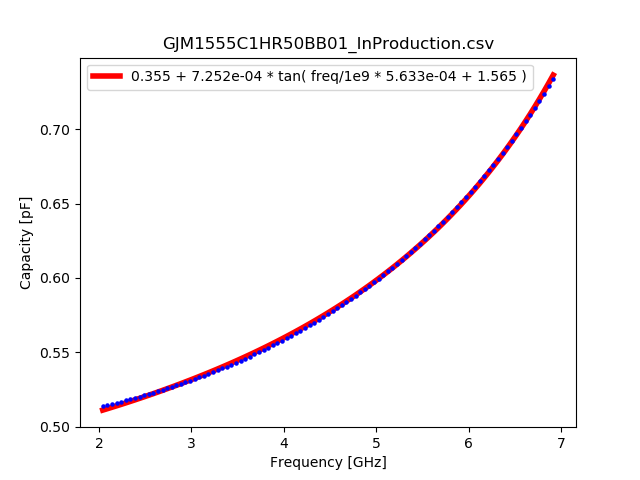
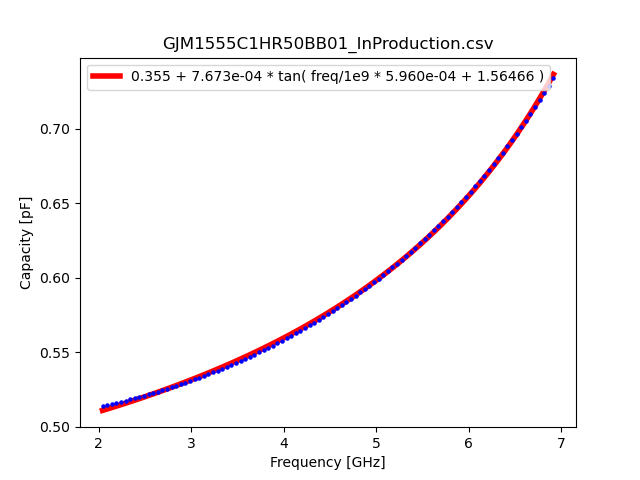
:sparkles: Feature :

diff --git a/fitting.py b/fitting.py
@@ -88,7 +88,7 @@ def fitting(file_name, freq_min, freq_max, save_img=True):
     if save_img:
         plt.scatter(freq, cap, s=5, c='blue', zorder=2)
         # plt.plot(freq, func(freq, *popt), lw=4, c='red', zorder=1, label='{:.2E} + {:.2E}*exp(freq[GHz] * {:.2E} + {:.2E})'.format(*popt))
-        func_str = '{:.3f} + {:.3e} * tan( freq/1e9 * {:.3e} + {:.3f} )'.format(*popt)
+        func_str = '{:.3f} + {:.3e} * tan( freq/1e9 * {:.3e} + {:.5f} )'.format(*popt)
         plt.plot(freq, func(freq, *popt), lw=4, c='red', zorder=1, label=func_str)
         plt.title(file_name.split('/')[-1])
         plt.xlabel('Frequency [GHz]')

diff --git a/README.md b/README.md
@@ -5,31 +5,17 @@ note : use only simsurfing data
 
 | label | value | func |
 | ---   | ---   | --- |
-| [GJM1555C1H1R0BB01_InProduction.csv](img/GJM1555C1H1R0BB01_InProduction.png) | 1.0pF | `0.446 + 7.759e-03 * tan( freq/1e9 * 2.307e-03 + 1.553 )` |
-| [GJM1555C1H1R1BB01_InProduction.csv](img/GJM1555C1H1R1BB01_InProduction.png) | 1.1pF | `0.508 + 7.715e-03 * tan( freq/1e9 * 2.033e-03 + 1.555 )` |
-| [GJM1555C1H1R2BB01_InProduction.csv](img/GJM1555C1H1R2BB01_InProduction.png) | 1.2pF | `0.515 + 9.215e-03 * tan( freq/1e9 * 2.215e-03 + 1.554 )` |
-| [GJM1555C1H1R3BB01_InProduction.csv](img/GJM1555C1H1R3BB01_InProduction.png) | 1.3pF | `0.516 + 1.648e-02 * tan( freq/1e9 * 3.652e-03 + 1.544 )` |
-| [GJM1555C1H1R4BB01_InProduction.csv](img/GJM1555C1H1R4BB01_InProduction.png) | 1.4pF | `0.530 + 2.301e-02 * tan( freq/1e9 * 4.747e-03 + 1.536 )` |
-| [GJM1555C1H1R5BB01_InProduction.csv](img/GJM1555C1H1R5BB01_InProduction.png) | 1.5pF | `0.500 + 5.973e-02 * tan( freq/1e9 * 1.150e-02 + 1.490 )` |
-| [GJM1555C1H1R6BB01_InProduction.csv](img/GJM1555C1H1R6BB01_InProduction.png) | 1.6pF | `0.527 + 6.705e-02 * tan( freq/1e9 * 1.248e-02 + 1.486 )` |
-| [GJM1555C1H1R7BB01_InProduction.csv](img/GJM1555C1H1R7BB01_InProduction.png) | 1.7pF | `0.737 + 6.072e-02 * tan( freq/1e9 * 1.229e-02 + 1.489 )` |
-| [GJM1555C1H1R8BB01_InProduction.csv](img/GJM1555C1H1R8BB01_InProduction.png) | 1.8pF | `0.756 + 6.549e-02 * tan( freq/1e9 * 1.264e-02 + 1.488 )` |
-| [GJM1555C1H1R9BB01_InProduction.csv](img/GJM1555C1H1R9BB01_InProduction.png) | 1.9pF | `0.774 + 6.380e-02 * tan( freq/1e9 * 1.179e-02 + 1.496 )` |
-| [GJM1555C1H2R0BB01_InProduction.csv](img/GJM1555C1H2R0BB01_InProduction.png) | 2.0pF | `0.728 + 6.880e-02 * tan( freq/1e9 * 1.165e-02 + 1.498 )` |
-| [GJM1555C1H2R1BB01_InProduction.csv](img/GJM1555C1H2R1BB01_InProduction.png) | 2.1pF | `0.754 + 8.282e-02 * tan( freq/1e9 * 1.360e-02 + 1.488 )` |
-| [GJM1555C1H2R2BB01_InProduction.csv](img/GJM1555C1H2R2BB01_InProduction.png) | 2.2pF | `0.785 + 7.863e-02 * tan( freq/1e9 * 1.256e-02 + 1.496 )` |
-| [GJM1555C1H2R3BB01_InProduction.csv](img/GJM1555C1H2R3BB01_InProduction.png) | 2.3pF | `1.099 + 6.886e-02 * tan( freq/1e9 * 1.348e-02 + 1.494 )` |
-| [GJM1555C1H2R4BB01_InProduction.csv](img/GJM1555C1H2R4BB01_InProduction.png) | 2.4pF | `1.133 + 7.643e-02 * tan( freq/1e9 * 1.443e-02 + 1.490 )` |
-| [GJM1555C1H2R5BB01_InProduction.csv](img/GJM1555C1H2R5BB01_InProduction.png) | 2.5pF | `1.160 + 7.962e-02 * tan( freq/1e9 * 1.450e-02 + 1.491 )` |
-| [GJM1555C1HR10BB01_InProduction.csv](img/GJM1555C1HR10BB01_InProduction.png) | 0.1pF | `0.092 + 3.410e-05 * tan( freq/1e9 * 3.710e-04 + 1.566 )` |
-| [GJM1555C1HR20BB01_InProduction.csv](img/GJM1555C1HR20BB01_InProduction.png) | 0.2pF | `0.170 + 2.088e-04 * tan( freq/1e9 * 6.529e-04 + 1.563 )` |
-| [GJM1555C1HR30BB01_InProduction.csv](img/GJM1555C1HR30BB01_InProduction.png) | 0.3pF | `0.241 + 4.287e-04 * tan( freq/1e9 * 7.254e-04 + 1.563 )` |
-| [GJM1555C1HR40BB01_InProduction.csv](img/GJM1555C1HR40BB01_InProduction.png) | 0.4pF | `0.292 + 3.791e-04 * tan( freq/1e9 * 3.748e-04 + 1.567 )` |
-| [GJM1555C1HR50BB01_InProduction.csv](img/GJM1555C1HR50BB01_InProduction.png) | 0.5pF | `0.355 + 7.252e-04 * tan( freq/1e9 * 5.633e-04 + 1.565 )` |
-| [GJM1555C1HR60BB01_InProduction.csv](img/GJM1555C1HR60BB01_InProduction.png) | 0.6pF | `0.397 + 6.110e-04 * tan( freq/1e9 * 3.578e-04 + 1.567 )` |
-| [GJM1555C1HR70BB01_InProduction.csv](img/GJM1555C1HR70BB01_InProduction.png) | 0.7pF | `0.408 + 2.152e-03 * tan( freq/1e9 * 9.738e-04 + 1.562 )` |
-| [GJM1555C1HR80BB01_InProduction.csv](img/GJM1555C1HR80BB01_InProduction.png) | 0.8pF | `0.435 + 2.388e-03 * tan( freq/1e9 * 9.192e-04 + 1.563 )` |
-| [GJM1555C1HR90BB01_InProduction.csv](img/GJM1555C1HR90BB01_InProduction.png) | 0.9pF | `0.462 + 4.369e-03 * tan( freq/1e9 * 1.486e-03 + 1.559 )` |
-| [GRM1554C1HR40BA01_NotRecommended.csv](img/GRM1554C1HR40BA01_NotRecommended.png) | 0.4pF | `0.277 + 4.051e-04 * tan( freq/1e9 * 3.735e-04 + 1.567 )` |
-| [GRM1554C1HR60BA01_NotRecommended.csv](img/GRM1554C1HR60BA01_NotRecommended.png) | 0.6pF | `0.349 + 1.039e-03 * tan( freq/1e9 * 5.526e-04 + 1.566 )` |
-| [GRM1554C1HR80BA01_NotRecommended.csv](img/GRM1554C1HR80BA01_NotRecommended.png) | 0.8pF | `0.390 + 3.855e-03 * tan( freq/1e9 * 1.466e-03 + 1.559 )` |
+| [GJM1555C1H1R0BB01_InProduction.csv](img/GJM1555C1H1R0BB01_InProduction.png) | 1.0pF | `0.446 + 7.698e-03 * tan( freq/1e9 * 2.289e-03 + 1.55331 )` |
+| [GJM1555C1H1R1BB01_InProduction.csv](img/GJM1555C1H1R1BB01_InProduction.png) | 1.1pF | `0.508 + 7.055e-03 * tan( freq/1e9 * 1.859e-03 + 1.55603 )` |
+| [GJM1555C1H1R2BB01_InProduction.csv](img/GJM1555C1H1R2BB01_InProduction.png) | 1.2pF | `0.515 + 9.030e-03 * tan( freq/1e9 * 2.170e-03 + 1.55418 )` |
+| [GJM1555C1H1R7BB01_InProduction.csv](img/GJM1555C1H1R7BB01_InProduction.png) | 1.7pF | `0.737 + 6.081e-02 * tan( freq/1e9 * 1.231e-02 + 1.48854 )` |
+| [GJM1555C1H1R8BB01_InProduction.csv](img/GJM1555C1H1R8BB01_InProduction.png) | 1.8pF | `0.756 + 6.549e-02 * tan( freq/1e9 * 1.264e-02 + 1.48844 )` |
+| [GJM1555C1H1R9BB01_InProduction.csv](img/GJM1555C1H1R9BB01_InProduction.png) | 1.9pF | `0.774 + 6.378e-02 * tan( freq/1e9 * 1.178e-02 + 1.49582 )` |
+| [GJM1555C1H2R0BB01_InProduction.csv](img/GJM1555C1H2R0BB01_InProduction.png) | 2.0pF | `0.728 + 6.879e-02 * tan( freq/1e9 * 1.165e-02 + 1.49821 )` |
+| [GJM1555C1H2R1BB01_InProduction.csv](img/GJM1555C1H2R1BB01_InProduction.png) | 2.1pF | `0.754 + 8.282e-02 * tan( freq/1e9 * 1.360e-02 + 1.48800 )` |
+| [GJM1555C1H2R2BB01_InProduction.csv](img/GJM1555C1H2R2BB01_InProduction.png) | 2.2pF | `0.785 + 7.866e-02 * tan( freq/1e9 * 1.256e-02 + 1.49598 )` |
+| [GJM1555C1HR40BB01_InProduction.csv](img/GJM1555C1HR40BB01_InProduction.png) | 0.4pF | `0.292 + 9.407e-04 * tan( freq/1e9 * 9.301e-04 + 1.56081 )` |
+| [GJM1555C1HR50BB01_InProduction.csv](img/GJM1555C1HR50BB01_InProduction.png) | 0.5pF | `0.355 + 7.673e-04 * tan( freq/1e9 * 5.960e-04 + 1.56466 )` |
+| [GJM1555C1HR60BB01_InProduction.csv](img/GJM1555C1HR60BB01_InProduction.png) | 0.6pF | `0.397 + 7.269e-04 * tan( freq/1e9 * 4.257e-04 + 1.56661 )` |
+| [GJM1555C1HR70BB01_InProduction.csv](img/GJM1555C1HR70BB01_InProduction.png) | 0.7pF | `0.408 + 1.764e-03 * tan( freq/1e9 * 7.980e-04 + 1.56360 )` |
+| [GJM1555C1HR80BB01_InProduction.csv](img/GJM1555C1HR80BB01_InProduction.png) | 0.8pF | `0.435 + 1.767e-03 * tan( freq/1e9 * 6.801e-04 + 1.56495 )` |
